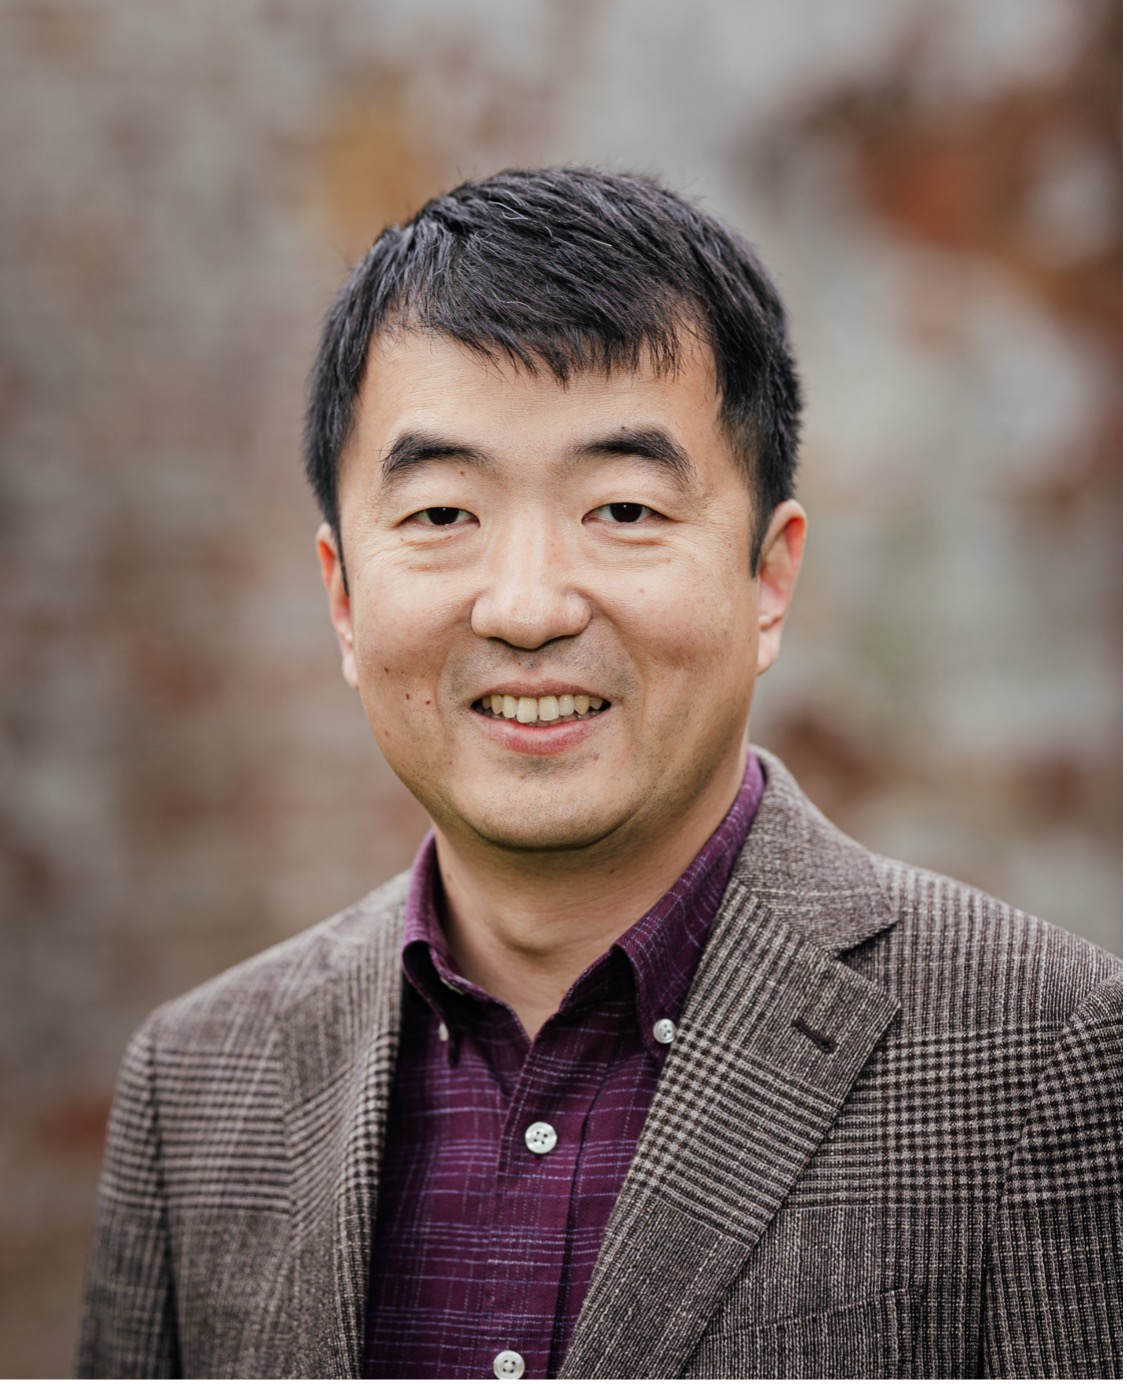
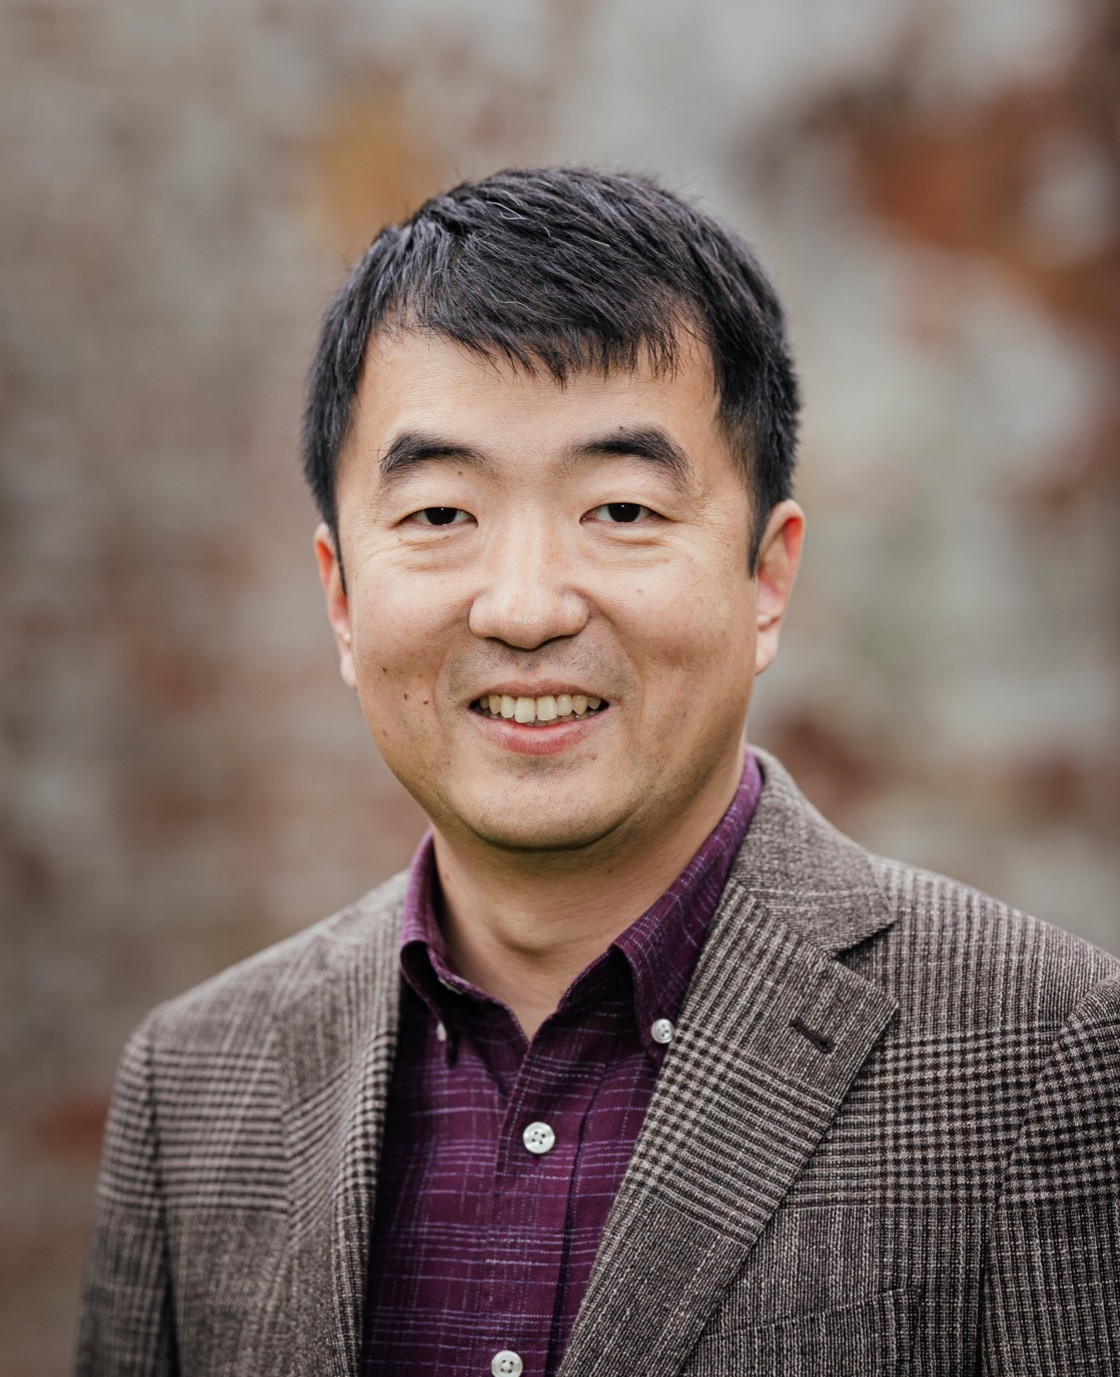
Switched out Meng's PP

diff --git a/_site/index.html b/_site/index.html
@@ -96,7 +96,7 @@
         
                 <h2 id="about-me">About Me</h2>
 
-<p><img class="profile-picture" src="avatar.jpeg" /></p>
+<p><img class="profile-picture" src="avatar2.jpeg" /></p>
 
 <p>Dr. Meng Wang is a Senior Lecturer in the Department of Computer Science, with research interests in programming languages and software engineering. He leads the <a href="https://bristolpl.github.io"><em>Programming Languages Research Group at Bristol</em></a> and is a member of <a href="https://ifipwg21wiki.cs.kuleuven.be/IFIP21/WebHome"><em>IFIP Working Group 2.1 on Algorithmic Languages and Calculi</em></a>. He is the International Director of <a href="https://www.bristol.ac.uk/engineering/school-sceem/"><em>School of Computer Science, Electrical and Electronic Engineering, and Engineering Maths</em></a>, and a member of the school management team and school board.</p>
 

diff --git a/_sass/typography.scss b/_sass/typography.scss
@@ -37,8 +37,10 @@
         font-style: italic;
     }
     .profile-picture {
-        height: $image-height;
-        width: $image-width;
+        height: auto;
+        max-width: 250px;
+        width: 30vw;
+        min-width: 120px;
         position: relative;
         margin: 5px 40px 20px 20px;
         float: left;

diff --git a/index.md b/index.md
@@ -5,7 +5,7 @@ title: About
 
 ## About Me
 
-<img class="profile-picture" src="avatar.jpeg">
+<img class="profile-picture" src="avatar2.jpeg">
 
 Dr. Meng Wang is a Reader in the Department of Computer Science, with research interests in programming languages and software engineering. He leads the [*Programming Languages Research Group at Bristol*](https://bristolpl.github.io) and is a member of [*IFIP Working Group 2.1 on Algorithmic Languages and Calculi*](https://ifipwg21wiki.cs.kuleuven.be/IFIP21/WebHome). He is the International Director of [*School of Computer Science, Electrical and Electronic Engineering, and Engineering Maths*](https://www.bristol.ac.uk/engineering/school-sceem/), and a member of the school management team and school board.
 
